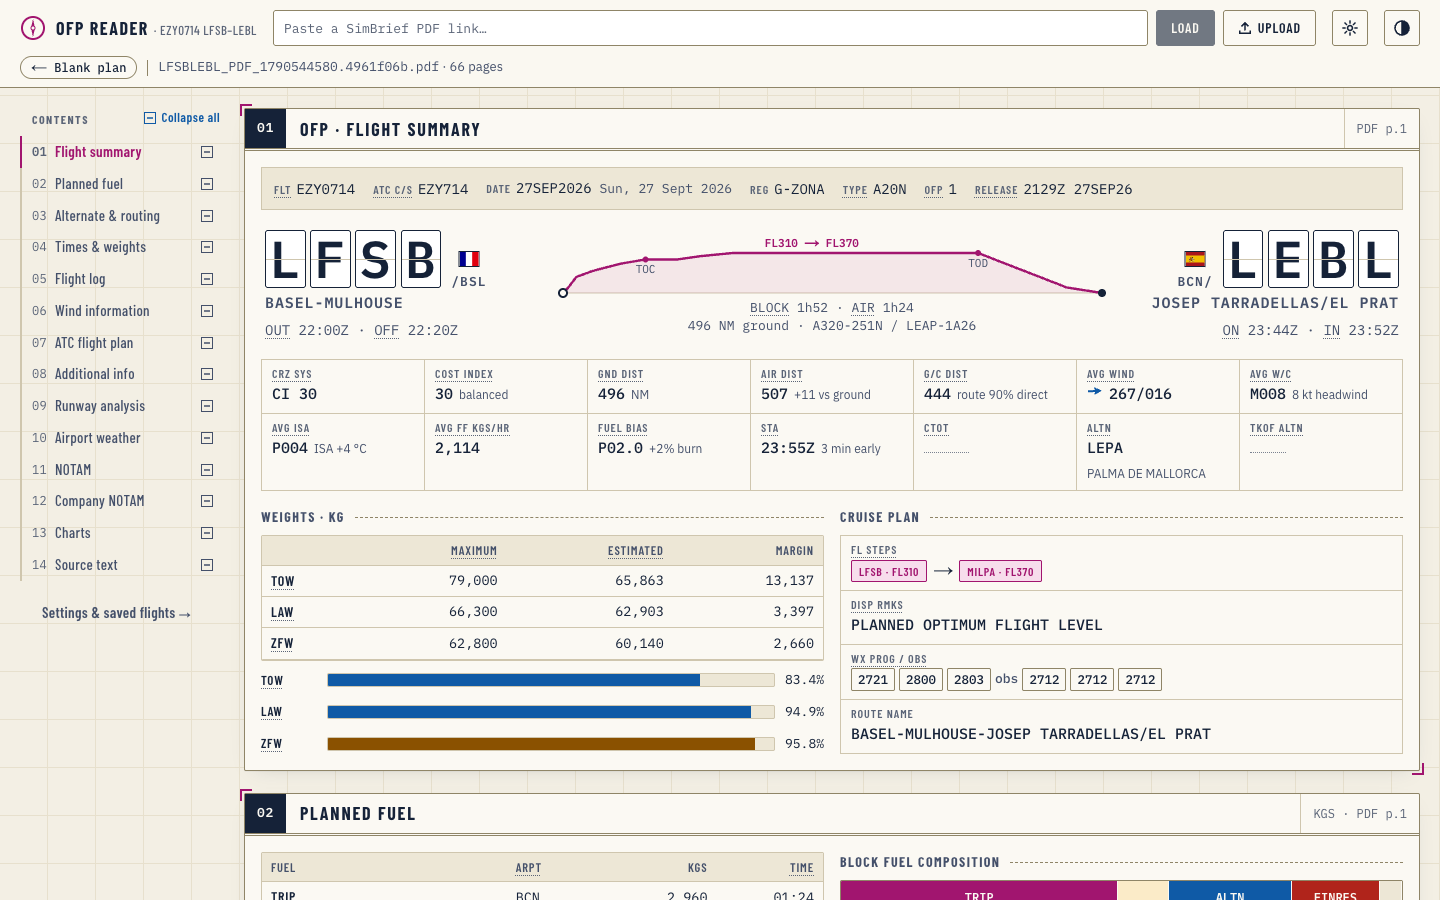
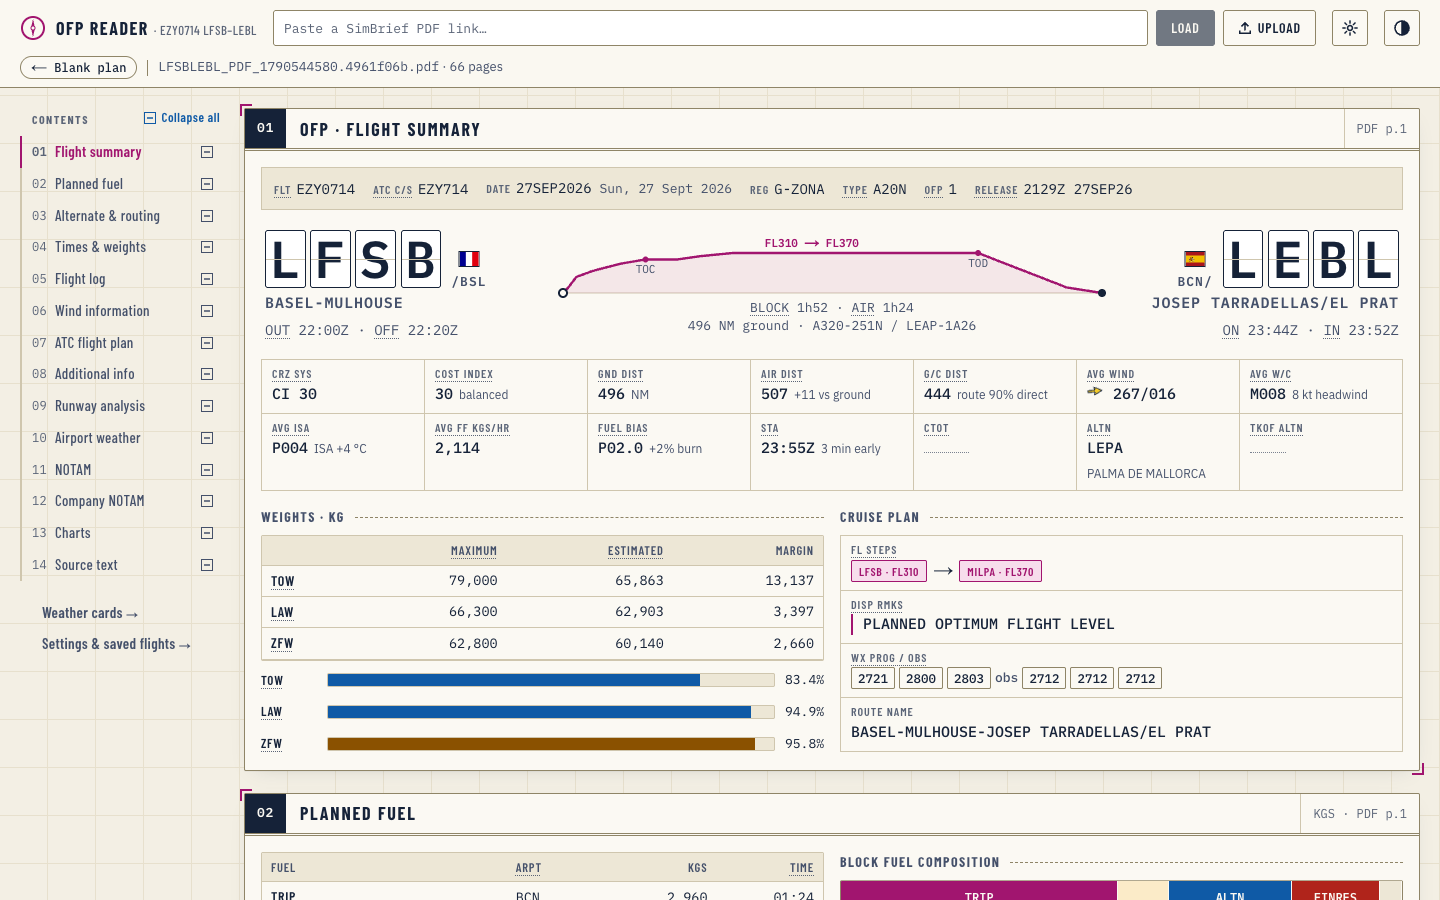
Release 1.4.0: weather cards, swaying wind arrows, Import JSON, map outlines
- Weather cards page (/weather): METAR, SPECI, TAF and ATIS (coded, plain
  or abbreviated) as cards with sky, wind, visibility, cloud layers, TAF
  timeline, ATIS letter, runways and notices; or a saved plan's weather
- Wind arrows sway with wind speed and gusts, coloured calm to storm, with
  a category chip on hover; tuned in the wind lab (/wind-lab)
- Settings: Import JSON restores exported flights (merge, file wins)
- Route map: coastlines and borders, fills its frame, W longitude labels
- Fix: multi-line dispatcher remarks were cut to their first line
- Review fixes: weather input survives reload, import skips prototype
  keys, spoken ATIS digits only join single digits, coded D-ATIS groups
  aren't notices, OFP-style report lines without Z split correctly
- README and screenshots refreshed

Changed region(s): [[0.5938, 0.6844, 0.8438, 0.84], [0.0312, 0.6533, 0.125, 0.7467], [0.7812, 0.4044, 0.8125, 0.4667]]

diff --git a/src/lib/wx/reports.ts b/src/lib/wx/reports.ts
@@ -159,7 +159,7 @@ export function mergeConditions(base: Conditions, change: Conditions, text: stri
 const ATIS_RE = /\bATIS\b|\bINFORMATION\s+[A-Z]+\b|\bINFO\s+[A-Z]\b/;
 /** An ATIS announces itself near the start: "EGLL ARR ATIS F", "THIS IS SCHIPHOL INFORMATION ROMEO". */
 const ATIS_START = /^(?:\S+\s+){0,4}?(?:ARR\s+|DEP\s+|ARRIVAL\s+|DEPARTURE\s+)?(?:ATIS|INFORMATION|INFO)\s+[A-Z]/;
-const START_RE = /^(METAR|SPECI|TAF)\b|^[A-Z]{4}\s+\d{6}Z\b/;
+const START_RE = /^(METAR|SPECI|TAF)\b|^[A-Z]{4}\s+\d{6}Z?\b/;
 const CHANGE_LINE = /^(TEMPO|BECMG|PROB\d\d|FM\d{6}|RMK)\b/;
 
 export function splitReports(text: string): string[] {
@@ -283,6 +283,8 @@ const NUMWORD: Record<string, string> = { ZERO: "0", ONE: "1", TWO: "2", THREE: 
 const COVER_WORD: Record<string, CloudLayer["cover"]> = { FEW: "FEW", SCATTERED: "SCT", SCT: "SCT", BROKEN: "BKN", BKN: "BKN", OVERCAST: "OVC", OVC: "OVC" };
 /** Sentences that are ATIS furniture rather than information. */
 const BOILERPLATE = /\b(ADVISE|ADVS|ACKNOWLEDGE|ACK|ON (INITIAL )?(CONTACT|CTC)|YOU HAVE (INFO|INFORMATION))\b/;
+/** Coded METAR-style groups (D-ATIS weather after a full stop isn't a notice). */
+const CODED_GROUP = /\b(?:(?:VRB|\d{3})\d{2,3}(?:G\d{2,3})?(?:KT|MPS)|Q\d{4}|A\d{4}|(?:FEW|SCT|BKN|OVC)\d{3}|M?\d{2}\/M?\d{2}|CAVOK)\b/;
 /** Sentences already shown as fields. */
 const FIELD_SENTENCE = /^(?:\S+\s+){0,3}?(INFO|INFORMATION|ATIS)\b|^\d{4}Z?$|^TIME\b|\b(RWYS?|RUNWAYS?)\b|^(SURFACE )?WIND\b|^(VIS|VISIBILITY|CAVOK)\b|^(FEW|SCT|BKN|OVC|SCATTERED|BROKEN|OVERCAST|NO SIGNIFICANT CLOUD|SKY CLEAR)\b|^(TEMP|TEMPERATURE|DEW ?POINT|DP)\b|^(QNH|ALTIMETER)\b|^(TRL|TL|TRANSITION LEVEL)\b|^(EXP|EXPECT)\s+(ILS|RNP|RNAV|VOR|NDB|LOC|VISUAL)\b|^(LIGHT|HEAVY|MODERATE)?\s*(RAIN|DRIZZLE|SNOW|FOG|MIST|HAZE|SHOWERS?|THUNDERSTORMS?)\b/;
 const WX_WORD: [RegExp, string][] = [
@@ -302,7 +304,8 @@ const WX_WORD: [RegExp, string][] = [
 function parseAtis(raw: string): Report {
   // Spoken digits ("TWO FOUR ZERO") become numbers so the same patterns match both styles.
   let s = raw.replace(/\b(ZERO|ONE|TWO|THREE|TREE|FOUR|FIVE|FIFE|SIX|SEVEN|EIGHT|NINE|NINER)\b/g, (w) => NUMWORD[w]);
-  s = s.replace(/(\d) (?=\d)/g, "$1");
+  // Join spoken single digits only ("2 4 0" → "240"), never two real numbers ("240 12").
+  s = s.replace(/\b(\d)(?: (\d)\b)+/g, (m) => m.replace(/ /g, ""));
   const tokens = s.split(/[\s,]+/).filter(Boolean);
 
   const letterM = s.match(/\b(?:INFORMATION|INFO|ATIS(?:\s+(?:ARR|DEP|ARRIVAL|DEPARTURE))?)\s+([A-Z][A-Z-]*)\b/);
@@ -371,7 +374,7 @@ function parseAtis(raw: string): Report {
   const notes = raw
     .split(/\.\s+|\.$/)
     .map((x) => x.trim().replace(/\.$/, ""))
-    .filter((x) => x && !BOILERPLATE.test(x) && !FIELD_SENTENCE.test(x));
+    .filter((x) => x && !BOILERPLATE.test(x) && !FIELD_SENTENCE.test(x) && !CODED_GROUP.test(x));
 
   return {
     kind: "ATIS",
@@ -444,7 +447,7 @@ export function headline(c: Conditions): string {
     if (top) bits.push(`${word[top.cover]}${top.baseFt != null ? ` at ${top.baseFt.toLocaleString("en-GB")} ft` : ""}${top.type === "CB" ? " (CB)" : top.type === "TCU" ? " (TCU)" : ""}`);
     else if (c.noCloud) bits.push(c.noCloud === "NCD" ? "no cloud detected" : c.noCloud === "NSC" ? "no significant cloud" : "clear sky");
   }
-  if (!bits.length) return "No weather groups found";
+  if (!bits.length) return c.visM != null || c.wind ? "No cloud or weather reported" : "No weather groups found";
   const s = bits.join(", ");
   return s[0].toUpperCase() + s.slice(1);
 }

diff --git a/src/components/WeatherApp.tsx b/src/components/WeatherApp.tsx
@@ -1,7 +1,7 @@
 "use client";
 
 import Link from "next/link";
-import { useEffect, useMemo, useState, useSyncExternalStore } from "react";
+import { useEffect, useMemo, useRef, useState, useSyncExternalStore } from "react";
 import { Brand, ThemeToggle, Toc } from "./chrome";
 import { CollapseAllButton, CollapseProvider } from "./collapse";
 import { TooltipLayer } from "./TooltipLayer";
@@ -501,10 +501,16 @@ export function WeatherApp() {
   const [text, setText] = useState("");
   const [loadedFrom, setLoadedFrom] = useState<string | null>(null);
   const [busy, setBusy] = useState<string | null>(null);
+  // Restore the last text once, then save on change (not before the restore, or it would be wiped).
+  const restored = useRef(false);
   useEffect(() => {
-    queueMicrotask(() => setText(readInput()));
+    queueMicrotask(() => {
+      setText(readInput());
+      restored.current = true;
+    });
   }, []);
   useEffect(() => {
+    if (!restored.current) return;
     try {
       window.localStorage.setItem(INPUT_KEY, text);
     } catch {

diff --git a/src/lib/storage.ts b/src/lib/storage.ts
@@ -267,6 +267,7 @@ export function importFlight(data: unknown): ImportResult {
 
   const incoming: Record<string, FieldEntry> = {};
   for (const [key, f] of Object.entries(fields)) {
+    if (key === "__proto__" || key === "constructor" || key === "prototype") continue;
     const e = f as Partial<FieldEntry> | null;
     if (!e || !str(e.value) || e.value === "" || !str(e.label) || !str(e.section)) continue;
     incoming[key] = { section: e.section, label: e.label, value: e.value, order: typeof e.order === "number" ? e.order : Date.now() };

diff --git a/README.md b/README.md
@@ -35,14 +35,16 @@ and every value gets context: derived margins, decoded weather, a vertical profi
   - Fuel: block composition bar, landing fuel, margin above ALTN + FINRES, endurance, burn per NM, PIC extra → total fuel.
   - Weights: max vs estimated gauges, and whether the take-off weight is actually landing-weight limited.
   - Times: taxi / airborne / block durations, local UTC offsets, and a **planned vs actual timeline** on a shared clock.
-  - Flight log: vertical profile with MORA terrain, fuel on board and minimum-fuel line, a route map from the waypoint coordinates, FIR crossings, and a navigation log where ETOs follow your actual take-off time.
+  - Flight log: vertical profile with MORA terrain, fuel on board and minimum-fuel line, a route map from the waypoint coordinates over coastlines and country borders, FIR crossings, and a navigation log where ETOs follow your actual take-off time.
   - PIC extra: switch it into the nav log to get a **TFOB** column (and profile line): EFOB plus the extra still on board, less the cost of carrying it, taken from the OFP's own weight-change impact.
   - Runway analysis: V-speed cards, FLEX, head- and crosswind components for the planned runway, and factored landing distance against runway length.
   - Weather: METAR / TAF decoded token by token, flight category (VFR → LIFR) and hazard flags.
+  - Wind: AVG WIND, PWIND and METAR arrows sway like a windsock (faster with more wind, wider and irregular with gusts) and are coloured by strength, calm → storm.
   - NOTAMs: search, category filters, "critical" (CLSD, U/S, NOT AVBL…) and "mentions my planned runway" filters.
 - **Hover (or focus) to learn.** Almost every label explains itself: OFP abbreviations, ICAO equipment and PBN codes, METAR groups, TLR columns.
 - **Fill it in as you fly.** Actual times, weights, ATIS, clearance, RVSM check, ATO / AFOB per waypoint, TLR actuals: all saved per flight in your browser.
 - **Reopens instantly, even after SimBrief expires it.** Each PDF is kept locally, so returning to a plan (same link, reload, recent chip or Settings) doesn't download it again. SimBrief only keeps OFP PDFs for a limited time, so the saved copy is often the only one left.
+- **Weather cards.** A separate page (`/weather`) turns pasted METARs, TAFs and ATIS (coded or plain language), or a saved plan's weather, into cards: sky picture, wind, visibility, cloud layers, TAF timeline by flight category, ATIS letter, runways and notices.
 - **Your layout.** Collapse any section (or all of them) from its header or the Contents rail; it stays the way you left it. Pick the flight summary graphic: vertical profile, profile + times, route silhouette, progress timeline or classic arc.
 - **Day and night themes**, both meeting WCAG AA contrast.
 
@@ -55,6 +57,10 @@ and every value gets context: derived margins, decoded weather, a vertical profi
 | Airport weather | Settings & saved flights |
 | --- | --- |
 | ![Decoded METAR and TAF cards](docs/screenshots/weather.png) | ![Saved flights and stored entries](docs/screenshots/settings.png) |
+
+**Weather cards page**
+
+![ATIS, METAR and TAF for Heathrow as weather cards, with a TAF timeline](docs/screenshots/weather-cards.png)
 
 **Planned vs actual timeline**
 
@@ -108,7 +114,8 @@ Live at **[charts.massorbit.co.uk](https://charts.massorbit.co.uk)**, deployed w
 | Inspect a waypoint | Hover the profile, map or a nav-log row, or focus a chart and use the arrow keys |
 | Hide sections | Click a section's header, or the ⊟ boxes / **Collapse all** in Contents |
 | Change the summary graphic | ⚙ **Settings → Appearance** |
-| Manage saved data | ⚙ **Settings**: saved flights, stored entries, export JSON, delete, theme |
+| Manage saved data | ⚙ **Settings**: saved flights, stored entries, export / import JSON, delete, theme |
+| Read METARs, TAFs or ATIS as cards | **Weather cards →** in Contents (`/weather`): paste reports, or pick a saved plan |
 
 ## How it works
 
@@ -138,10 +145,11 @@ Everything stays in the browser. Nothing is sent anywhere.
 | Theme preference | `localStorage` | `ofp-theme` |
 | Collapsed sections | `localStorage` | `ofp-reader:collapsed` |
 | Summary graphic style | `localStorage` | `ofp-reader:strip` |
+| Text pasted on the weather page | `localStorage` | `ofp-reader:wx-input` |
 
 **One record per flight plan.** The id is `FLIGHT_DATE_ROUTE_OFPn`, e.g. `EZY0714_27SEP2026_LFSBLEBL_OFP1`. Flight numbers repeat daily, so the date and route are part of the key, and each re-release (new OFP number) gets its own storage. Plans without a flight or OFP number fall back to a fingerprint of the OFP's first page, which includes the release time.
 
-Clearing site data or using a private window removes everything; **Export JSON** in Settings keeps a copy.
+Clearing site data or using a private window removes everything; **Export JSON** in Settings keeps a copy, and **Import JSON** brings it back (in this or another browser).
 
 ## Project structure
 
@@ -151,10 +159,14 @@ src/
 │   ├── layout.tsx            fonts, theme + collapsed-section boot scripts, footer
 │   ├── page.tsx              reader
 │   ├── settings/page.tsx     settings
+│   ├── weather/page.tsx      weather cards
+│   ├── wind-lab/             tuning page for the wind-arrow sway (not linked)
 │   └── globals.css           design tokens (day / night) and all styles
 ├── components/
 │   ├── OfpApp.tsx            loading, status row, form state
 │   ├── SettingsApp.tsx       saved flights, stored data, appearance, storage
+│   ├── WeatherApp.tsx        weather cards page
+│   ├── WindArrow.tsx         swaying, category-coloured wind arrow
 │   ├── chrome.tsx            brand, theme toggle, contents rail
 │   ├── collapse.tsx          collapsible-section state, Collapse all
 │   ├── FlightStrip.tsx       summary graphic (profile, times, route, timeline, arc)
@@ -176,6 +188,9 @@ src/
     │   ├── icaoCountry.ts    ICAO prefix → country (for flags)
     │   ├── picExtra.ts       PIC extra / TFOB model
     │   └── format.ts         time, number and unit helpers
+    ├── wind/                 wind-arrow sway engine and model (shared with the wind lab)
+    ├── wx/reports.ts         METAR / TAF / ATIS → structured reports for the cards
+    ├── outlines.ts           coastline / border outlines for the route map
     ├── storage.ts            per-flight localStorage records
     ├── stripPref.ts          summary graphic preference
     ├── build-info.ts         version / commit / dirty flag for the footer

diff --git a/CHANGELOG.md b/CHANGELOG.md
@@ -2,7 +2,7 @@
 
 All notable changes to OFP Reader. Versions follow [Semantic Versioning](https://semver.org/).
 
-## [Unreleased]
+## [1.4.0] - 2026-10-02
 
 ### Added
 
@@ -11,6 +11,10 @@ All notable changes to OFP Reader. Versions follow [Semantic Versioning](https:/
 - **Weather cards page** at `/weather` (linked from the Contents rail): paste any mix of METARs, SPECIs, TAFs and ATIS, or pull the weather from a saved plan, and each report becomes a card grouped by airport. Observation cards show a sky picture, a plain-English headline, the swaying wind arrow, visibility on a flight-category scale, a cloud-layer column, temperature with fog risk, QNH in hPa and inHg, the METAR trend, and how long ago it was issued. TAF cards add a timeline coloured by flight category (BECMG hatched while it changes, TEMPO/PROB as dashed bars below, hover for details) and a row per change group. ATIS works coded (D-ATIS) or in plain language, with the information letter, runways for landing and take-off, approach and transition level. Abbreviated ATIS (`VIS 10 KM`, `TEMP 17, DP 15`, `WIND 020 AT 5`, `BKN AT 3000`, `ARVG RWYS 32L, 32R`) reads too, and notices such as bird activity are listed on the card. US formats (`10SM`, `A2995`) and m/s winds are converted. Text that isn't a report is listed as not recognised; everything stays in the browser.
 - **Wind lab** at `/wind-lab` (not linked from the reader): the tuning page for the arrows, with dozens of samples, live angle traces, and every rhythm, sway, chaos and easing setting. The arrows and the lab share one model (`src/lib/wind`).
 - **Coastlines and country borders on the route map**: thin solid coastlines and dashed borders under the route, from Natural Earth 1:50m (public domain, via world-atlas). The outlines are built into a compact file at build time (`copy-assets`) and fetched only when a map is shown (about 140 KB compressed).
+
+### Changed
+
+- README screenshots refreshed (coloured wind arrows, map outlines, Import JSON) and a new one for the weather cards page.
 - The route map fills its frame at every width instead of sitting in a fixed box with blank bands at the sides; gridlines and outlines run edge to edge.
 
 ### Fixed
@@ -85,6 +89,7 @@ All notable changes to OFP Reader. Versions follow [Semantic Versioning](https:/
 - Settings page for saved flights, stored entries, export, deletion and theme.
 - Recent-plan chips, Blank plan, a planned vs actual timeline and day/night themes meeting WCAG AA.
 
+[1.4.0]: https://github.com/redomar/ofp-reader/compare/v1.3.1...v1.4.0
 [1.3.1]: https://github.com/redomar/ofp-reader/compare/v1.3.0...v1.3.1
 [1.3.0]: https://github.com/redomar/ofp-reader/compare/v1.2.0...v1.3.0
 [1.2.0]: https://github.com/redomar/ofp-reader/compare/v1.1.0...v1.2.0
